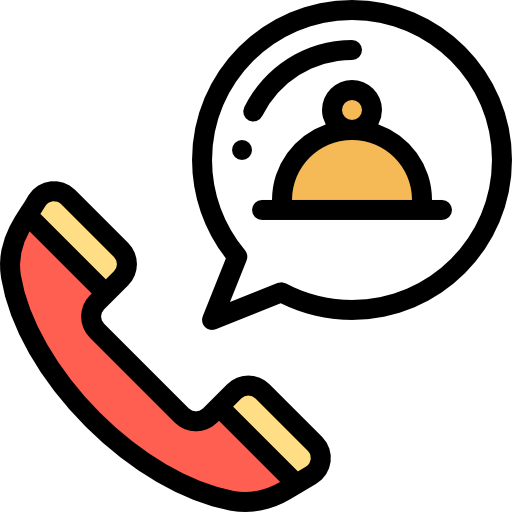
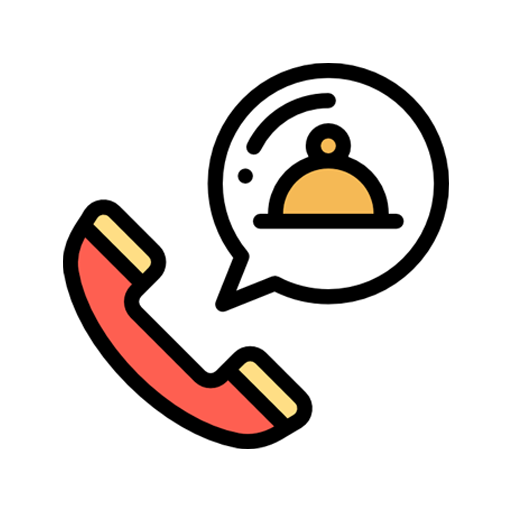
add spacing in order card and modify new-order-landing image with more spacing around

diff --git a/css/landing.css b/css/landing.css
@@ -389,6 +389,7 @@ img {
   width: 180px;
   transform: translateZ(20px); /*Tilt JS*/
   height: 180px;
+  margin-bottom: 1rem;
 }
 
 .order-landing__title {
@@ -396,6 +397,7 @@ img {
   margin-bottom: var(--mb-1);
   transform: translateZ(20px); /*Tilt JS*/
   cursor: default;
+  margin-bottom: 1rem;
 }
 
 /*========== FOOTER ==========*/
